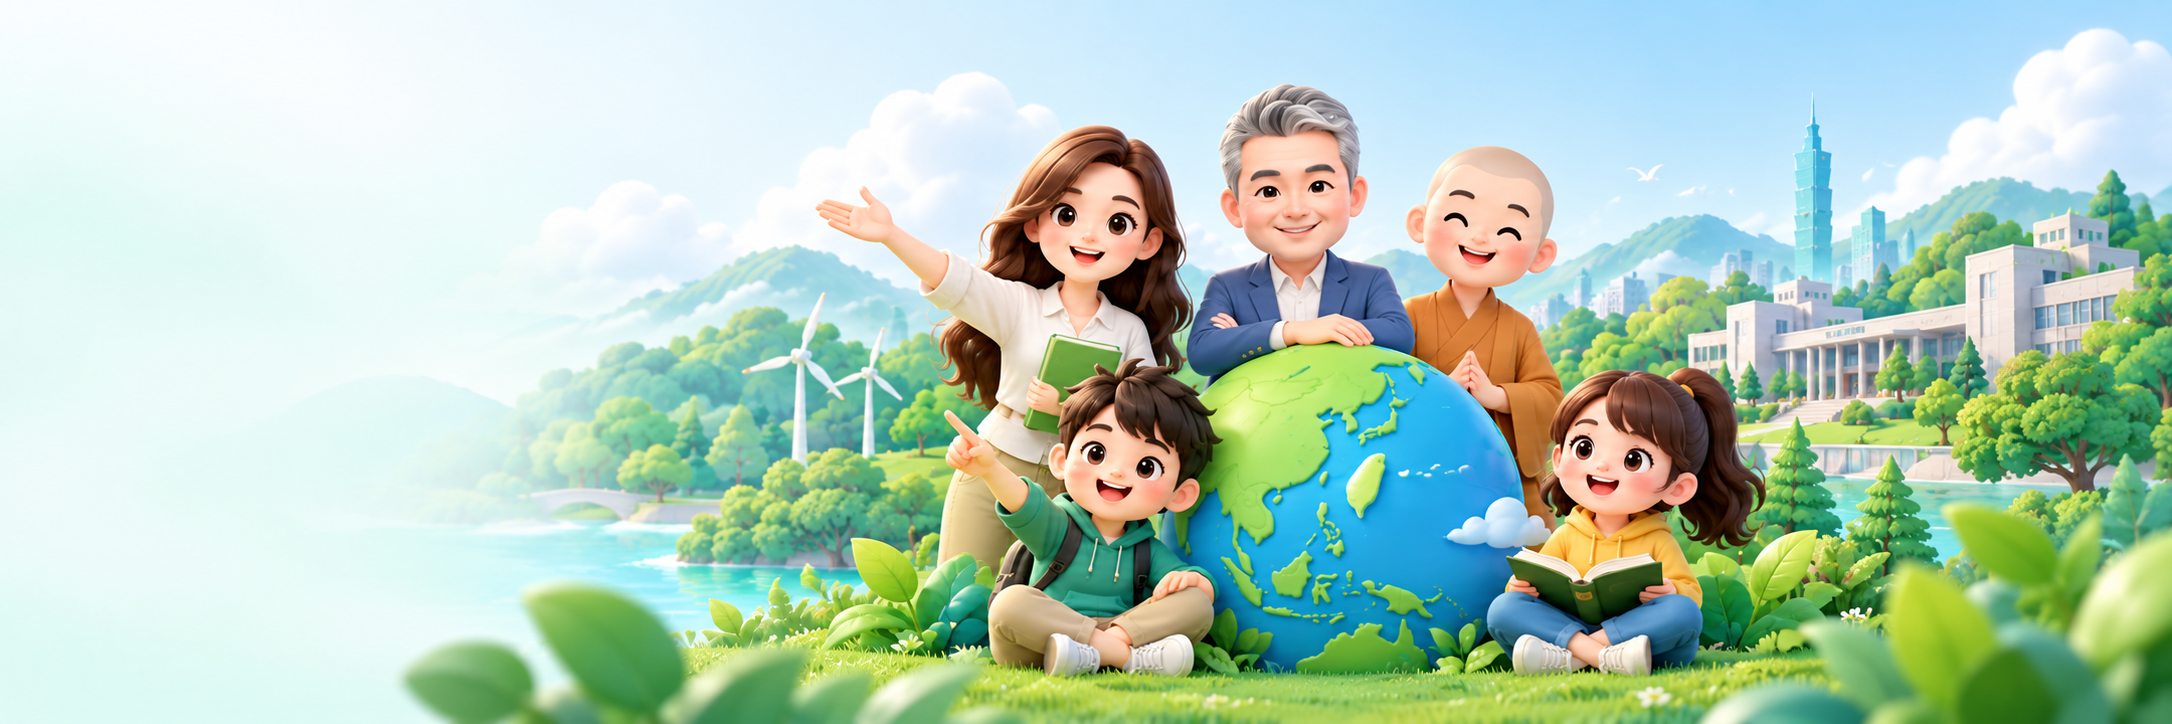
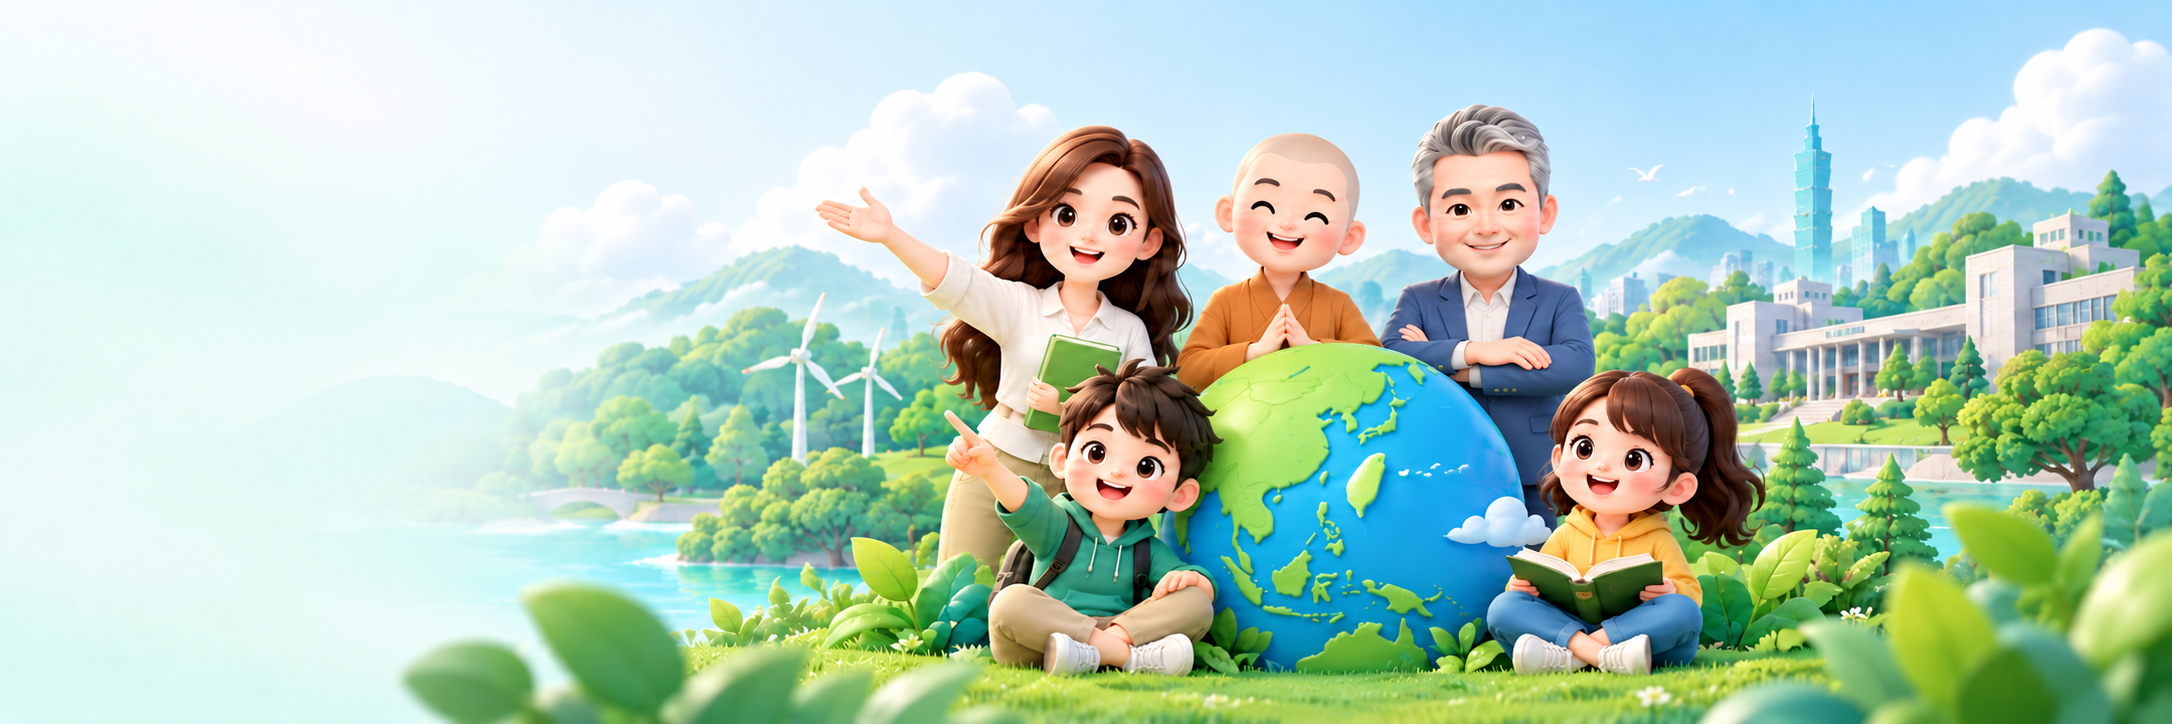
Swap monk and grey-haired man in homepage hero

diff --git a/app/templates/index.html b/app/templates/index.html
@@ -67,7 +67,7 @@
     <section id="tabPane_home" class="tab-pane home-page" aria-label="系統首頁">
       <div class="home-welcome-row">
         <div class="home-hero ds-card">
-          <img src="/static/images/hero.png" alt="師生與永續地球、校園及綠色環境的主題插圖" width="2172" height="724" fetchpriority="high">
+          <img src="/static/images/hero.png?v=20261019_positions" alt="師生與永續地球、校園及綠色環境的主題插圖" width="2172" height="724" fetchpriority="high">
           <div class="hero-copy"><span class="eyebrow">從理解，走向實踐</span><h2>歡迎使用<br>BLIA SDGs 社會影響力系統</h2><p>從學習到行動，讓永續變成日常。</p><span class="hero-caption">專業學術研究 · 永續發展 · 數位科技 · 友善學習</span></div>
         </div>
         <aside class="home-note ds-card"><span class="note-leaf" aria-hidden="true">🌱</span><h3>今天，從哪一步開始？</h3><p>選擇下方功能模組，探索永續知識、分析行動影響，展開你的實踐之旅。</p><span class="note-tag">學習・分析・行動</span></aside>
